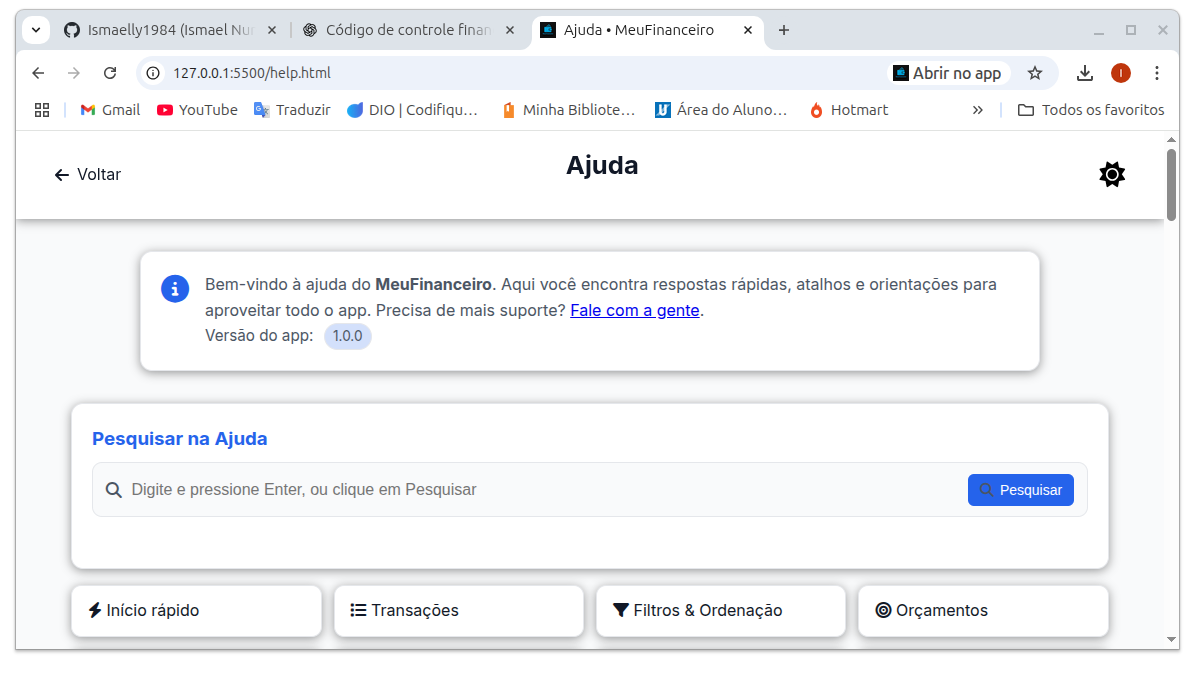
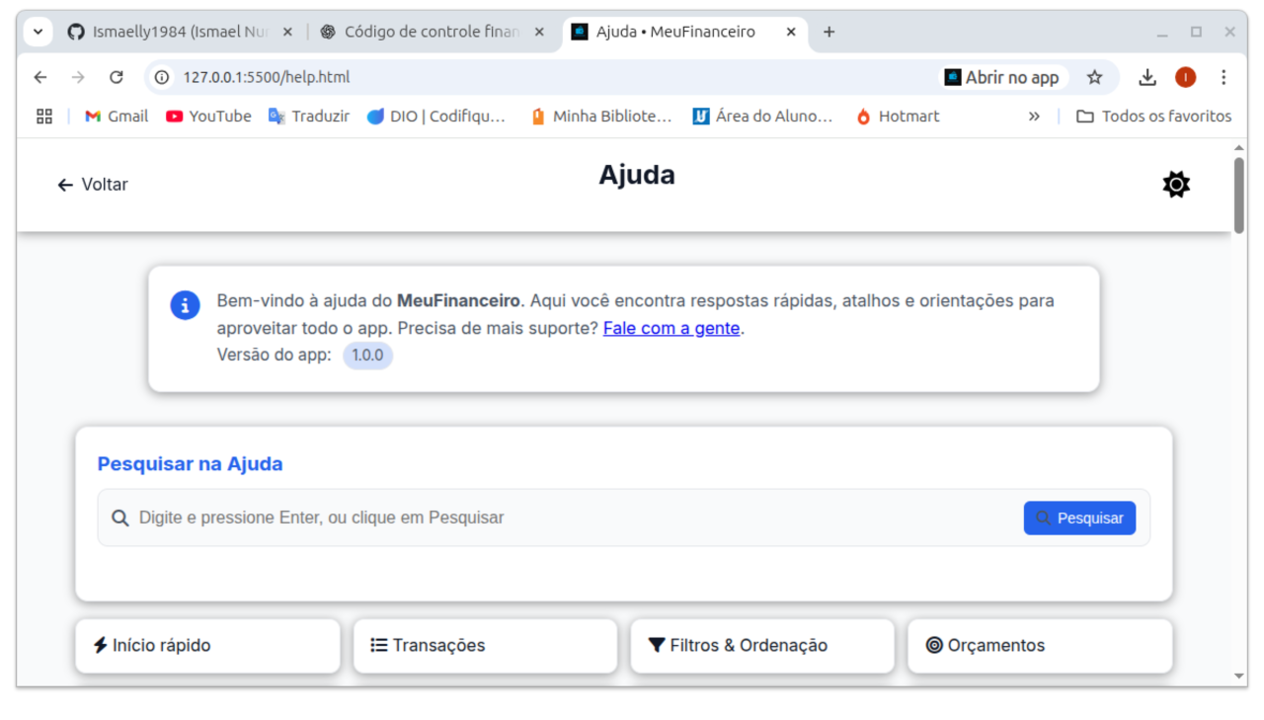
Ajuste: service-worker movido para raiz, atualização de screenshots, ícones adicionados e páginas corrigidas

diff --git a/pages/relatorios.html b/pages/relatorios.html
@@ -1,24 +1,25 @@
 <!DOCTYPE html>
 <html lang="pt-br">
+
 <head>
-  <meta charset="UTF-8"/>
-  <meta name="viewport" content="width=device-width, initial-scale=1"/>
+  <meta charset="UTF-8" />
+  <meta name="viewport" content="width=device-width, initial-scale=1" />
   <title>MeuFinanceiro — Relatórios</title>
-  <meta name="description" content="Gere relatórios por período, tipo e categoria."/>
-  <meta name="theme-color" content="#3b82f6"/>
+  <meta name="description" content="Gere relatórios por período, tipo e categoria." />
+  <meta name="theme-color" content="#3b82f6" />
 
   <!-- CSS -->
-  <link rel="stylesheet" href="../assets/css/style.css"/>
+  <link rel="stylesheet" href="../assets/css/style.css" />
 
   <!-- PWA -->
-  <link rel="manifest" href="../manifest.json"/>
-  <link rel="icon" type="image/png" href="../favicon.png"/>
+  <link rel="manifest" href="../manifest.json" />
+  <link rel="icon" type="image/png" href="../favicon.png" />
 
   <!-- Libs -->
-  <link rel="stylesheet"
-        href="https://cdnjs.cloudflare.com/ajax/libs/font-awesome/6.4.0/css/all.min.css"/>
+  <link rel="stylesheet" href="https://cdnjs.cloudflare.com/ajax/libs/font-awesome/6.4.0/css/all.min.css" />
   <script src="https://cdn.jsdelivr.net/npm/chart.js"></script>
 </head>
+
 <body>
   <!-- Navbar -->
   <nav class="navbar">
@@ -66,8 +67,10 @@
 
     <div id="rel-resumo" style="margin-bottom:1rem"></div>
 
-    <div class="grafico-container"><canvas id="rel-grafico-linha" aria-label="Gráfico de linha por período"></canvas></div>
-    <div class="grafico-container"><canvas id="rel-grafico-pizza" aria-label="Gráfico de pizza por categoria"></canvas></div>
+    <div class="grafico-container"><canvas id="rel-grafico-linha" aria-label="Gráfico de linha por período"></canvas>
+    </div>
+    <div class="grafico-container"><canvas id="rel-grafico-pizza" aria-label="Gráfico de pizza por categoria"></canvas>
+    </div>
 
     <section style="margin-top:1rem">
       <h3>Top Categorias</h3>
@@ -83,8 +86,10 @@
         <a href="../index.html" title="Resumo" aria-label="Ir para Resumo"><i class="fas fa-chart-pie"></i></a>
         <a href="./transacoes.html" title="Transações" aria-label="Ir para Transações"><i class="fas fa-list"></i></a>
         <a href="./graficos.html" title="Gráficos" aria-label="Ir para Gráficos"><i class="fas fa-chart-line"></i></a>
-        <a href="../index.html#limite-app" title="Limite" aria-label="Ir para Limite"><i class="fas fa-bullseye"></i></a>
-        <a href="../index.html#orcamento-categorias" title="Orçamento" aria-label="Ir para Orçamento"><i class="fas fa-money-check-alt"></i></a>
+        <a href="../index.html#limite-app" title="Limite" aria-label="Ir para Limite"><i
+            class="fas fa-bullseye"></i></a>
+        <a href="../index.html#orcamento-categorias" title="Orçamento" aria-label="Ir para Orçamento"><i
+            class="fas fa-money-check-alt"></i></a>
       </div>
     </div>
   </footer>
@@ -96,13 +101,6 @@
 
   <!-- App -->
   <script type="module" src="../js/app.js"></script>
-  <script>
-    // Registro opcional do SW (o index já registra com escopo global)
-    if ('serviceWorker' in navigator) {
-      window.addEventListener('load', () => {
-        navigator.serviceWorker.register('/service-worker.js').catch(console.error);
-      });
-    }
-  </script>
 </body>
+
 </html>

diff --git a/pages/transacoes.html b/pages/transacoes.html
@@ -1,5 +1,6 @@
 <!DOCTYPE html>
 <html lang="pt-br">
+
 <head>
   <meta charset="UTF-8" />
   <meta name="viewport" content="width=device-width, initial-scale=1" />
@@ -15,8 +16,7 @@
   <link rel="icon" type="image/png" href="../favicon.png" />
 
   <!-- Libs -->
-  <link rel="stylesheet"
-        href="https://cdnjs.cloudflare.com/ajax/libs/font-awesome/6.4.0/css/all.min.css" />
+  <link rel="stylesheet" href="https://cdnjs.cloudflare.com/ajax/libs/font-awesome/6.4.0/css/all.min.css" />
 </head>
 
 <body>
@@ -111,7 +111,8 @@
       <h2><i class="fas fa-bullseye"></i> Controle de Limite</h2>
       <label for="limite">Definir limite de gastos (R$):</label>
       <input type="number" id="limite" name="limite" placeholder="Ex: 1000" />
-      <div class="progress-bar" role="progressbar" aria-label="Progresso do limite" aria-valuemin="0" aria-valuemax="100">
+      <div class="progress-bar" role="progressbar" aria-label="Progresso do limite" aria-valuemin="0"
+        aria-valuemax="100">
         <div id="barra-progresso" class="progress-bar-fill"></div>
       </div>
       <p><strong>Gasto até agora:</strong> R$ <span id="gasto-atual">0.00</span>
@@ -191,8 +192,10 @@
         <a href="../index.html" title="Resumo" aria-label="Ir para Resumo"><i class="fas fa-chart-pie"></i></a>
         <a href="./transacoes.html" title="Transações" aria-label="Ir para Transações"><i class="fas fa-list"></i></a>
         <a href="./graficos.html" title="Gráficos" aria-label="Ir para Gráficos"><i class="fas fa-chart-line"></i></a>
-        <a href="../index.html#limite-app" title="Limite" aria-label="Ir para Limite"><i class="fas fa-bullseye"></i></a>
-        <a href="../index.html#orcamento-categorias" title="Orçamento" aria-label="Ir para Orçamento"><i class="fas fa-money-check-alt"></i></a>
+        <a href="../index.html#limite-app" title="Limite" aria-label="Ir para Limite"><i
+            class="fas fa-bullseye"></i></a>
+        <a href="../index.html#orcamento-categorias" title="Orçamento" aria-label="Ir para Orçamento"><i
+            class="fas fa-money-check-alt"></i></a>
       </div>
     </div>
   </footer>
@@ -204,13 +207,6 @@
 
   <!-- App -->
   <script type="module" src="../js/app.js"></script>
-  <script>
-    // Registro do SW opcional (o index já registra para todo o site)
-    if ('serviceWorker' in navigator) {
-      window.addEventListener('load', () => {
-        navigator.serviceWorker.register('/service-worker.js').catch(console.error);
-      });
-    }
-  </script>
 </body>
+
 </html>

diff --git a/pages/graficos.html b/pages/graficos.html
@@ -1,5 +1,6 @@
 <!DOCTYPE html>
 <html lang="pt-br">
+
 <head>
   <meta charset="UTF-8" />
   <meta name="viewport" content="width=device-width, initial-scale=1" />
@@ -15,8 +16,7 @@
   <link rel="icon" type="image/png" href="../favicon.png" />
 
   <!-- Libs -->
-  <link rel="stylesheet"
-        href="https://cdnjs.cloudflare.com/ajax/libs/font-awesome/6.4.0/css/all.min.css" />
+  <link rel="stylesheet" href="https://cdnjs.cloudflare.com/ajax/libs/font-awesome/6.4.0/css/all.min.css" />
   <script src="https://cdn.jsdelivr.net/npm/chart.js"></script>
 </head>
 
@@ -44,7 +44,8 @@
   <main class="container">
     <h1><i class="fas fa-chart-line"></i> Gráficos</h1>
     <section id="graficos" class="graficos">
-      <div class="grafico-container"><canvas id="graficoPizza" aria-label="Gráfico de pizza por categoria"></canvas></div>
+      <div class="grafico-container"><canvas id="graficoPizza" aria-label="Gráfico de pizza por categoria"></canvas>
+      </div>
       <div class="grafico-container"><canvas id="graficoLinha" aria-label="Gráfico de linha por mês"></canvas></div>
     </section>
   </main>
@@ -57,8 +58,10 @@
         <a href="../index.html" title="Resumo" aria-label="Ir para Resumo"><i class="fas fa-chart-pie"></i></a>
         <a href="./transacoes.html" title="Transações" aria-label="Ir para Transações"><i class="fas fa-list"></i></a>
         <a href="./graficos.html" title="Gráficos" aria-label="Ir para Gráficos"><i class="fas fa-chart-line"></i></a>
-        <a href="../index.html#limite-app" title="Limite" aria-label="Ir para Limite"><i class="fas fa-bullseye"></i></a>
-        <a href="../index.html#orcamento-categorias" title="Orçamento" aria-label="Ir para Orçamento"><i class="fas fa-money-check-alt"></i></a>
+        <a href="../index.html#limite-app" title="Limite" aria-label="Ir para Limite"><i
+            class="fas fa-bullseye"></i></a>
+        <a href="../index.html#orcamento-categorias" title="Orçamento" aria-label="Ir para Orçamento"><i
+            class="fas fa-money-check-alt"></i></a>
       </div>
     </div>
   </footer>
@@ -70,14 +73,6 @@
 
   <!-- App -->
   <script type="module" src="../js/app.js"></script>
-  <script>
-    // Caso queira registrar o SW a partir daqui também (opcional; o index já faz):
-    if ('serviceWorker' in navigator) {
-      window.addEventListener('load', () => {
-        navigator.serviceWorker.register('/service-worker.js')
-          .catch(console.error);
-      });
-    }
-  </script>
 </body>
+
 </html>

diff --git a/js/app.js b/js/app.js
@@ -163,9 +163,15 @@ function init() {
 
   // Service Worker
   if ('serviceWorker' in navigator) {
-    let serviceWorkerPath = '/service-worker.js';
-    if (window.location.pathname.includes('/financeiro/')) serviceWorkerPath = '/financeiro/service-worker.js';
-    navigator.serviceWorker.register(serviceWorkerPath).catch(() => { });
+    window.addEventListener('load', () => {
+      navigator.serviceWorker.register('/service-worker.js')
+        .then(reg => {
+          console.log('✅ Service Worker registrado com sucesso:', reg);
+        })
+        .catch(err => {
+          console.error('❌ Erro ao registrar Service Worker:', err);
+        });
+    });
   }
 }
 

diff --git a/index.html b/index.html
@@ -12,7 +12,7 @@
 
   <!-- PWA -->
   <link rel="manifest" href="./manifest.json" />
-  <link rel="icon" type="image/png" href="./favicon.png" />
+  <link rel="icon" type="image/png" href="./favicon.png">
 
   <!-- Libs -->
   <link rel="stylesheet"
@@ -106,14 +106,6 @@
 
   <!-- App -->
   <script type="module" src="./js/app.js"></script>
-  <script>
-    if ('serviceWorker' in navigator) {
-      window.addEventListener('load', () => {
-        navigator.serviceWorker.register('/service-worker.js')
-          .then(reg => console.log('SW registrado:', reg))
-          .catch(err => console.error('SW falhou:', err));
-      });
-    }
-  </script>
+ 
 </body>
 </html>
